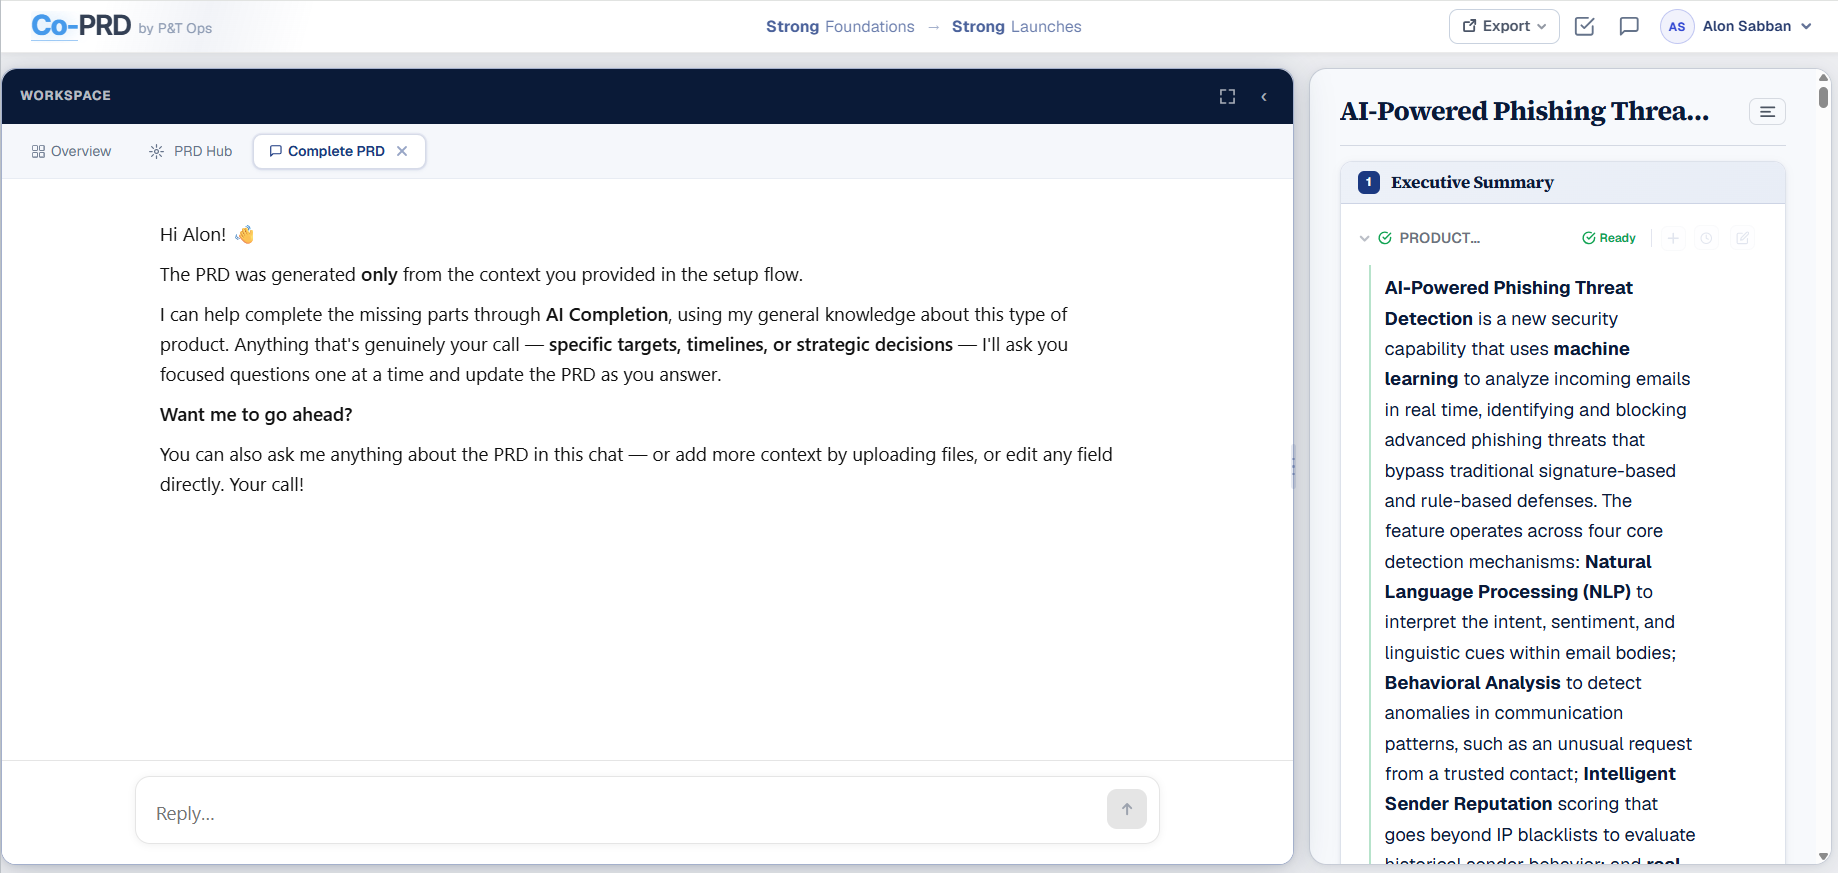
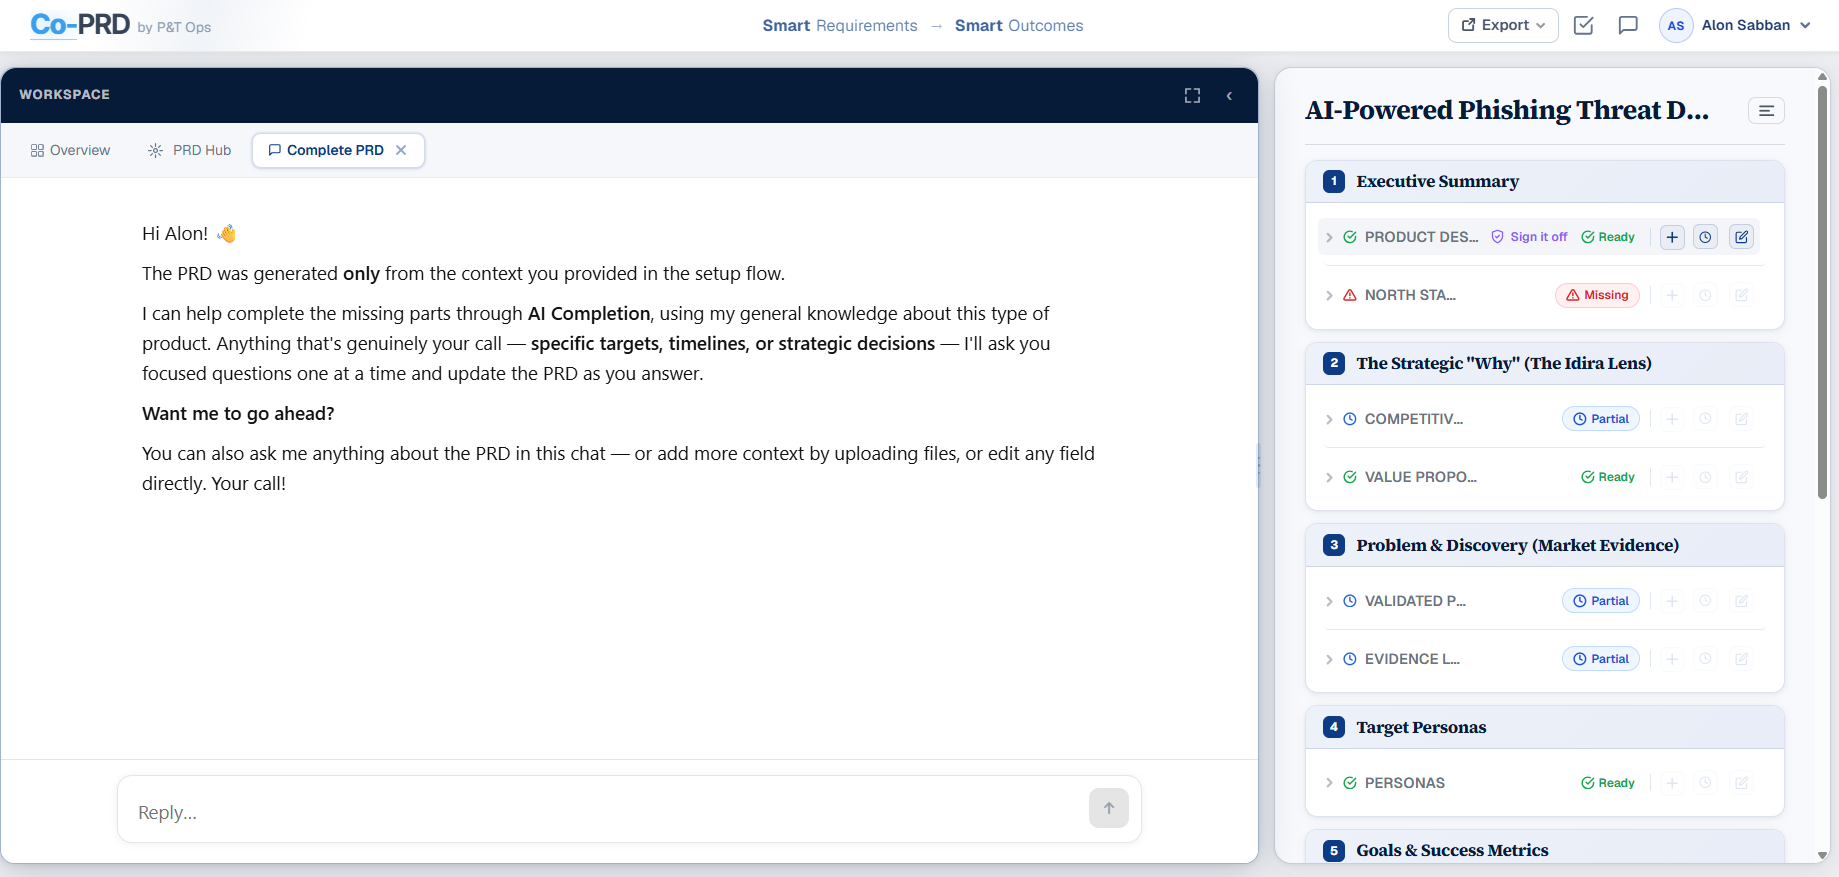
Remove 'Edit individual fields' slide, renumber to 11 slides total

diff --git a/index.html b/index.html
@@ -252,11 +252,11 @@
   <div class="nav-brand">co‑<span>prd</span> &nbsp;Quick Start</div>
   <div class="nav-right">
     <span class="slide-counter" id="counter">1 / 11</span>
-    <button class="nav-btn" id="prevBtn" disabled="">← Prev</button>
-    <button class="nav-btn" id="nextBtn">Next →</button>
+    <button class="nav-btn" id="prevBtn">← Prev</button>
+    <button class="nav-btn" id="nextBtn" disabled="">Next →</button>
   </div>
 </nav>
-<div class="progress-bar"><div class="progress-fill" id="progress" style="width: 9.09091%;"></div></div>
+<div class="progress-bar"><div class="progress-fill" id="progress" style="width: 100%;"></div></div>
 
 <div class="slides-wrapper">
 
@@ -468,7 +468,7 @@
         The AI can fill gaps using <b>general knowledge</b> — but only when <em>you</em> say go.
       </div>
     </div>
-    <div class="ann info" style="top: 58.24%; left: 84.58%;">
+    <div class="ann info" style="top: 30.84%; left: 81.48%;">
       <div class="ann-bubble">
         Edit each PRD field independently — changes stay isolated to that field only.
       </div>
@@ -501,7 +501,6 @@
 </div>
 
 <!-- ══ S10: FEEDBACK (slide12.png) ════════════════════════════════════ -->
-<!-- User menu dropdown top-right with "Feedback" option -->
 <div class="slide" id="s10">
   <div class="step-header">
     <div class="step-num">9</div>
@@ -510,7 +509,7 @@
   </div>
   <div class="annotated">
     <img src="slides/slide12.png" alt="Feedback">
-    <div class="ann tip" style="top: 45.27%; left: 24.98%;">
+    <div class="ann tip" style="top: 46.87%; left: 25.18%;">
       <div class="ann-bubble">
         <strong>Feedback button</strong>The team is notified automatically -&nbsp; Use it !</div>
     </div>
@@ -596,7 +595,7 @@
   }
 
   // Baked arrow data: top/left/rot/hidden per slide per bubble index
-  const ARROW_DATA = {"s2":[{"top":"23.71%","left":"66.32%","rot":"179.4","hidden":"0"},{"top":"36.86%","left":"54.07%","rot":"0","hidden":"1"}],"s3":[{"top":"24.3%","left":"69.5%","rot":"-71.3","hidden":"0"},{"top":"42.46%","left":"62.77%","rot":"144.4","hidden":"0"}],"s4":[{"top":"69.4%","left":"3.98%","rot":"0","hidden":"1"},{"top":"68.49%","left":"44.11%","rot":"0","hidden":"1"}],"s5":[{"top":"68.53%","left":"34%","rot":"0","hidden":"0"},{"top":"85.14%","left":"82.53%","rot":"179.3","hidden":"0"}],"s6":[{"top":"72.56%","left":"33.95%","rot":"0","hidden":"0"},{"top":"85.42%","left":"82.19%","rot":"-179.6","hidden":"0"}],"s7":[{"top":"46.25%","left":"41.77%","rot":"0","hidden":"1"}],"s8":[{"top":"60.48%","left":"8.1%","rot":"0","hidden":"1"},{"top":"63.44%","left":"22.96%","rot":"0","hidden":"0"},{"top":"60.31%","left":"78.13%","rot":"0","hidden":"1"},{"top":"63.33%","left":"37.99%","rot":"0","hidden":"1"}],"s9":[{"top":"26.53%","left":"76.42%","rot":"89.6","hidden":"0"}],"s10":[{"top":"51.61%","left":"38.36%","rot":"0","hidden":"0"}]};
+  const ARROW_DATA = {"s2":[{"top":"23.71%","left":"66.32%","rot":"179.4","hidden":"0"},{"top":"36.86%","left":"54.07%","rot":"0","hidden":"1"}],"s3":[{"top":"24.3%","left":"69.5%","rot":"-71.3","hidden":"0"},{"top":"42.46%","left":"62.77%","rot":"144.4","hidden":"0"}],"s4":[{"top":"69.4%","left":"3.98%","rot":"0","hidden":"1"},{"top":"68.49%","left":"44.11%","rot":"0","hidden":"1"}],"s5":[{"top":"68.53%","left":"34%","rot":"0","hidden":"0"},{"top":"85.14%","left":"82.53%","rot":"179.3","hidden":"0"}],"s6":[{"top":"72.56%","left":"33.95%","rot":"0","hidden":"0"},{"top":"85.42%","left":"82.19%","rot":"-179.6","hidden":"0"}],"s7":[{"top":"46.25%","left":"41.77%","rot":"0","hidden":"1"}],"s8":[{"top":"60.48%","left":"8.1%","rot":"0","hidden":"1"},{"top":"63.44%","left":"22.96%","rot":"0","hidden":"0"},{"top":"60.31%","left":"78.13%","rot":"0","hidden":"1"},{"top":"63.33%","left":"37.99%","rot":"0","hidden":"1"}],"s9":[{"top":"26.53%","left":"76.42%","rot":"89.6","hidden":"0"}],"s10":[{"top":"51.9%","left":"38.48%","rot":"0","hidden":"0"}]};
 
   function createArrow(ann) {
     const color = arrowColor(ann);
@@ -1138,7 +1137,7 @@
       const cloneS1 = clone.querySelector('#s1');
       if (cloneS1) cloneS1.classList.add('active');
       const cloneCounter = clone.querySelector('#counter');
-      if (cloneCounter) cloneCounter.textContent = '1 / 11';
+      if (cloneCounter) cloneCounter.textContent = '1 / ' + TOTAL;
       const cloneDots = clone.querySelector('#dots');
       if (cloneDots) cloneDots.innerHTML = '';
       const cloneBar = clone.querySelector('#em-bar');